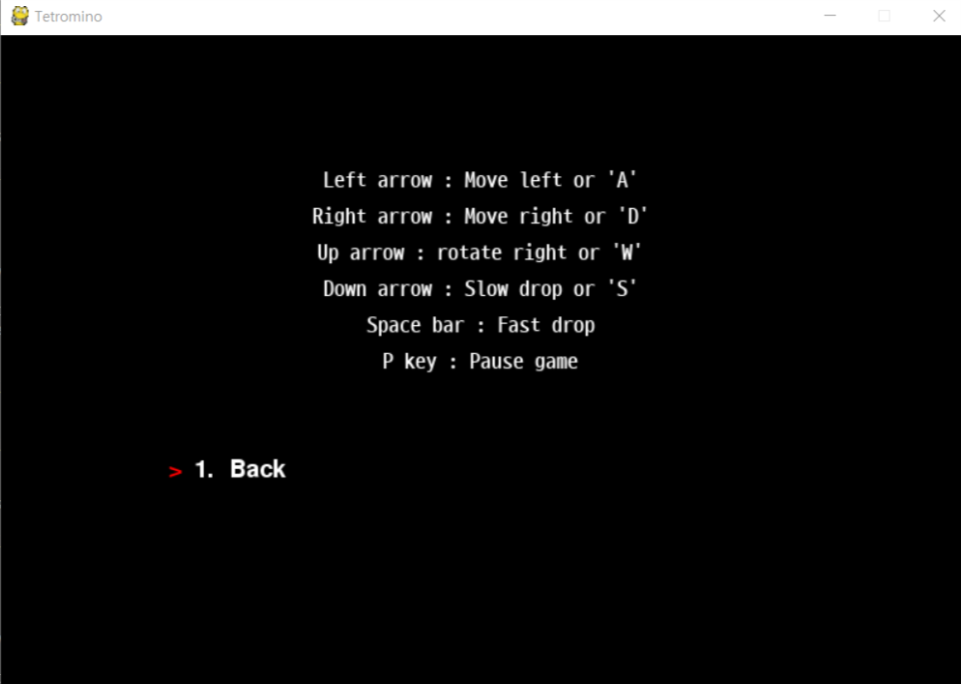
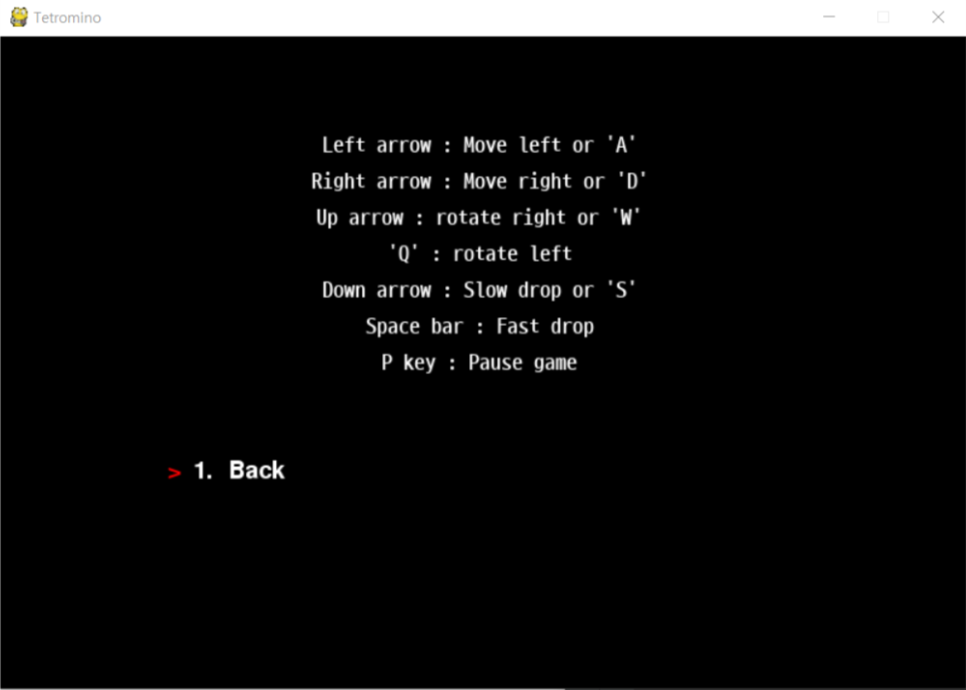
modify some code, image

diff --git a/Tetris/Tetris.py b/Tetris/Tetris.py
@@ -821,18 +821,21 @@ def showTextScreen2():
     lSurf, lRect = makeTextObjs('Left arrow : Move left or \'A\'', BASICFONT, TEXTCOLOR)
     rSurf, rRect = makeTextObjs('Right arrow : Move right or \'D\'', BASICFONT, TEXTCOLOR)
     uSurf, uRect = makeTextObjs('Up arrow : rotate right or \'W\'', BASICFONT, TEXTCOLOR)
+    qSurf, qRect = makeTextObjs('\'Q\' : rotate left', BASICFONT, TEXTCOLOR)
     dSurf, dRect = makeTextObjs('Down arrow : Slow drop or \'S\'', BASICFONT, TEXTCOLOR)
     sSurf, sRect = makeTextObjs('Space bar : Fast drop', BASICFONT, TEXTCOLOR)
     k_pSurf, k_pRect = makeTextObjs('P key : Pause game', BASICFONT, TEXTCOLOR)
-    lRect.center = (int(WINDOWWIDTH / 2)-3, int(WINDOWHEIGHT / 2)-150)
-    rRect.center = (int(WINDOWWIDTH / 2)-3, int(WINDOWHEIGHT / 2)-120)
-    uRect.center = (int(WINDOWWIDTH / 2)-3, int(WINDOWHEIGHT / 2)-90)
+    lRect.center = (int(WINDOWWIDTH / 2)-3, int(WINDOWHEIGHT / 2)-180)
+    rRect.center = (int(WINDOWWIDTH / 2)-3, int(WINDOWHEIGHT / 2)-150)
+    uRect.center = (int(WINDOWWIDTH / 2)-3, int(WINDOWHEIGHT / 2)-120)
+    qRect.center = (int(WINDOWWIDTH / 2)-3, int(WINDOWHEIGHT / 2)-90)
     dRect.center = (int(WINDOWWIDTH / 2)-3, int(WINDOWHEIGHT / 2)-60)
     sRect.center = (int(WINDOWWIDTH / 2)-3, int(WINDOWHEIGHT / 2)-30)
     k_pRect.center = (int(WINDOWWIDTH / 2)-3, int(WINDOWHEIGHT / 2))
     DISPLAYSURF.blit(lSurf, lRect)
     DISPLAYSURF.blit(rSurf, rRect)
     DISPLAYSURF.blit(uSurf, uRect)
+    DISPLAYSURF.blit(qSurf, qRect)
     DISPLAYSURF.blit(dSurf, dRect)
     DISPLAYSURF.blit(sSurf, sRect)
     DISPLAYSURF.blit(k_pSurf, k_pRect)
